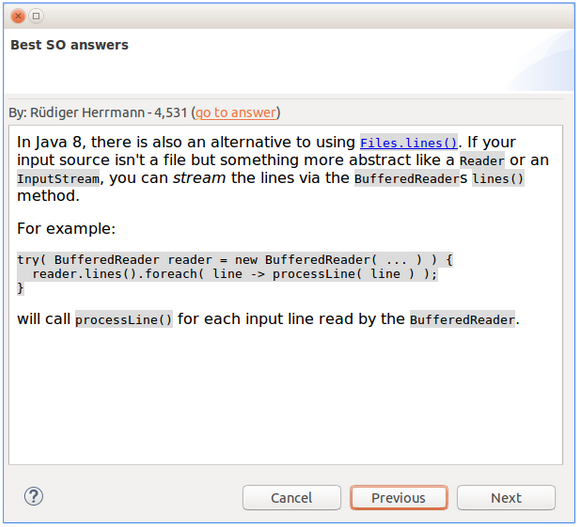
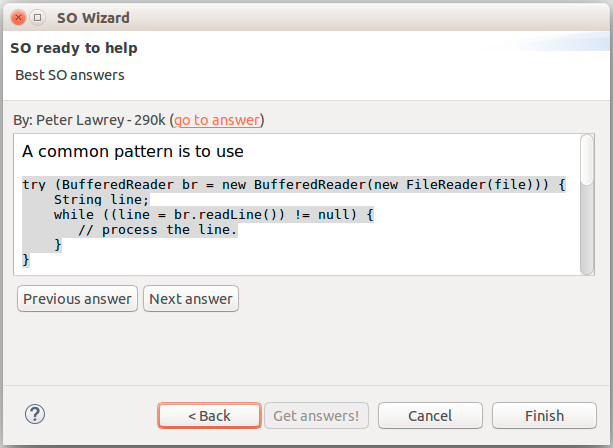
Changed images according to UI changes

Changed region(s): [[0.0, 0.0, 1.0, 1.0]]

diff --git a/README.md b/README.md
@@ -4,15 +4,13 @@ Enables you to get answers from Stack Overflow directly to Eclipse!
 
 ## Features
 
-Right click on the editor, then select "Ask me":
-
-![Ask me](/images/ask_me.png)
+Right-click on the editor, then select "Ask me".
 
 The "SO ready to help" dialog should appear:
 
-![SO ready to help](/images/how_to.png)
+![SO ready to help](/images/question.png)
 
-After clicking "OK" the answers dialog will open:
+After clicking "Get answers!" the answers dialog will open:
 
 ![Answers dialog](/images/answers.png)
 
